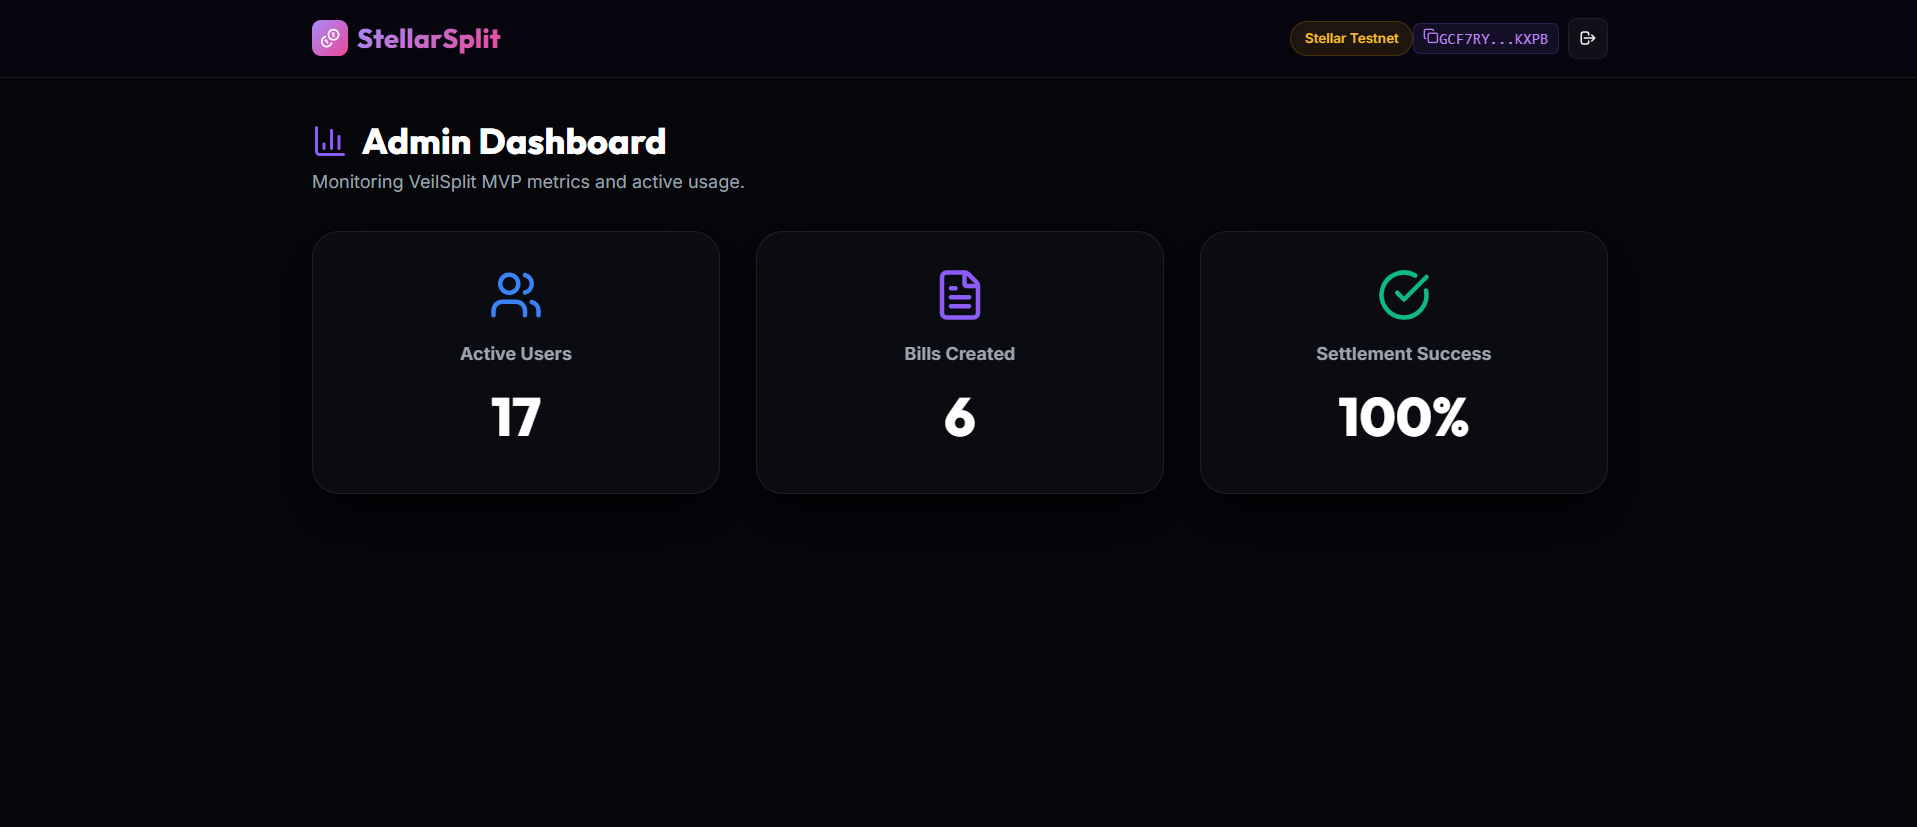
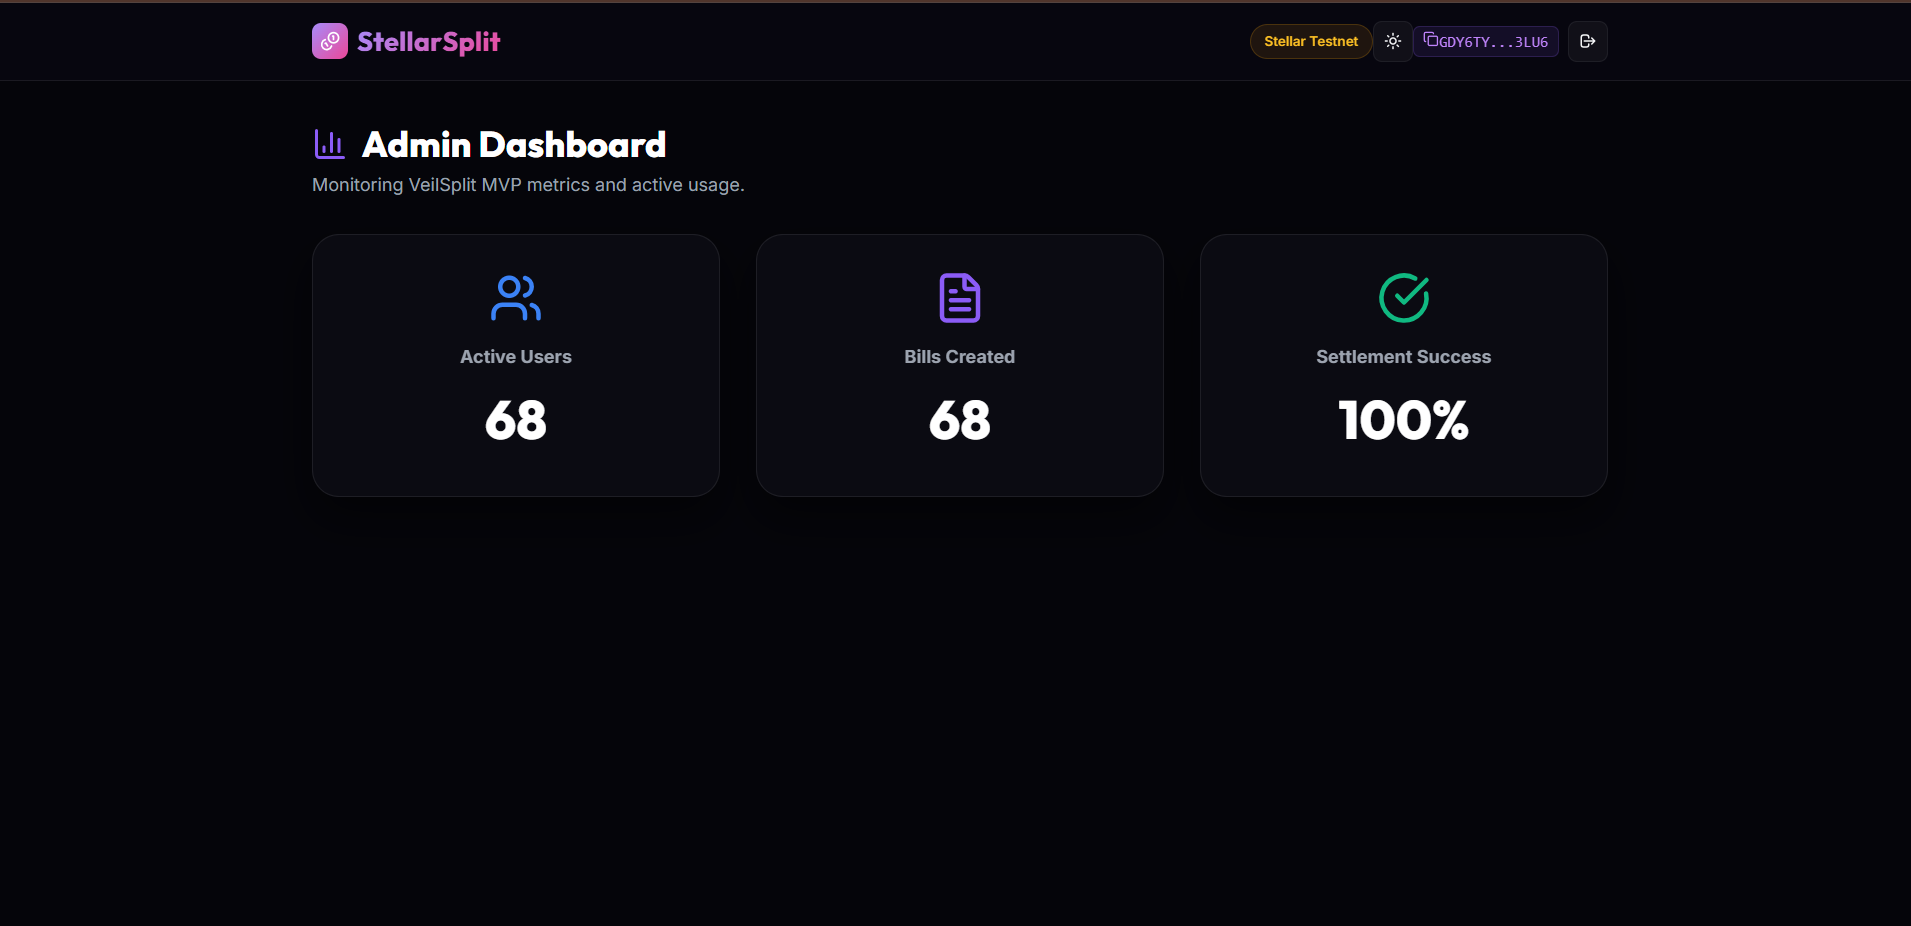
docs: update screenshots in README

diff --git a/README.md b/README.md
@@ -110,13 +110,13 @@ We scaled from our initial beta testers to 50+ unique users by distributing the 
 ## Screenshots
 
 - **Product UI:**
-  ![Product UI Screenshot](PRODUCT_UI_SCREENSHOT_URL_HERE)
+  ![Product UI Screenshot](image.png)
 
 - **Mobile Responsive View:**
-  ![Mobile Responsive UI Screenshot](MOBILE_UI_SCREENSHOT_URL_HERE)
+  ![Mobile Responsive UI Screenshot](image-1.png)
 
 - **Analytics Dashboard:**
-  ![Analytics Dashboard Screenshot](ANALYTICS_SCREENSHOT_URL_HERE)
+  ![Analytics Dashboard Screenshot](image-2.png)
 
 ## Next Phase Roadmap
 